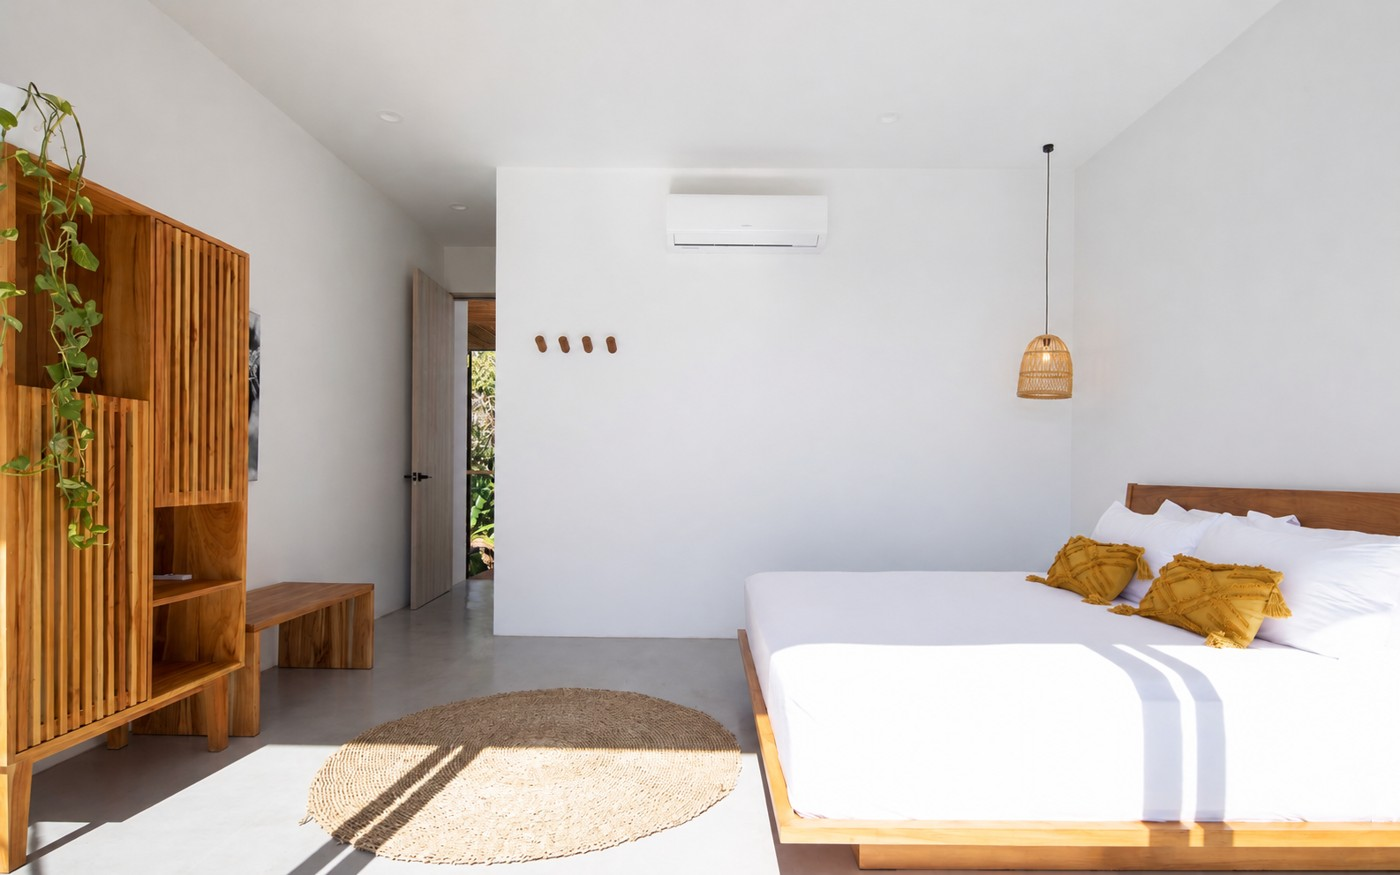
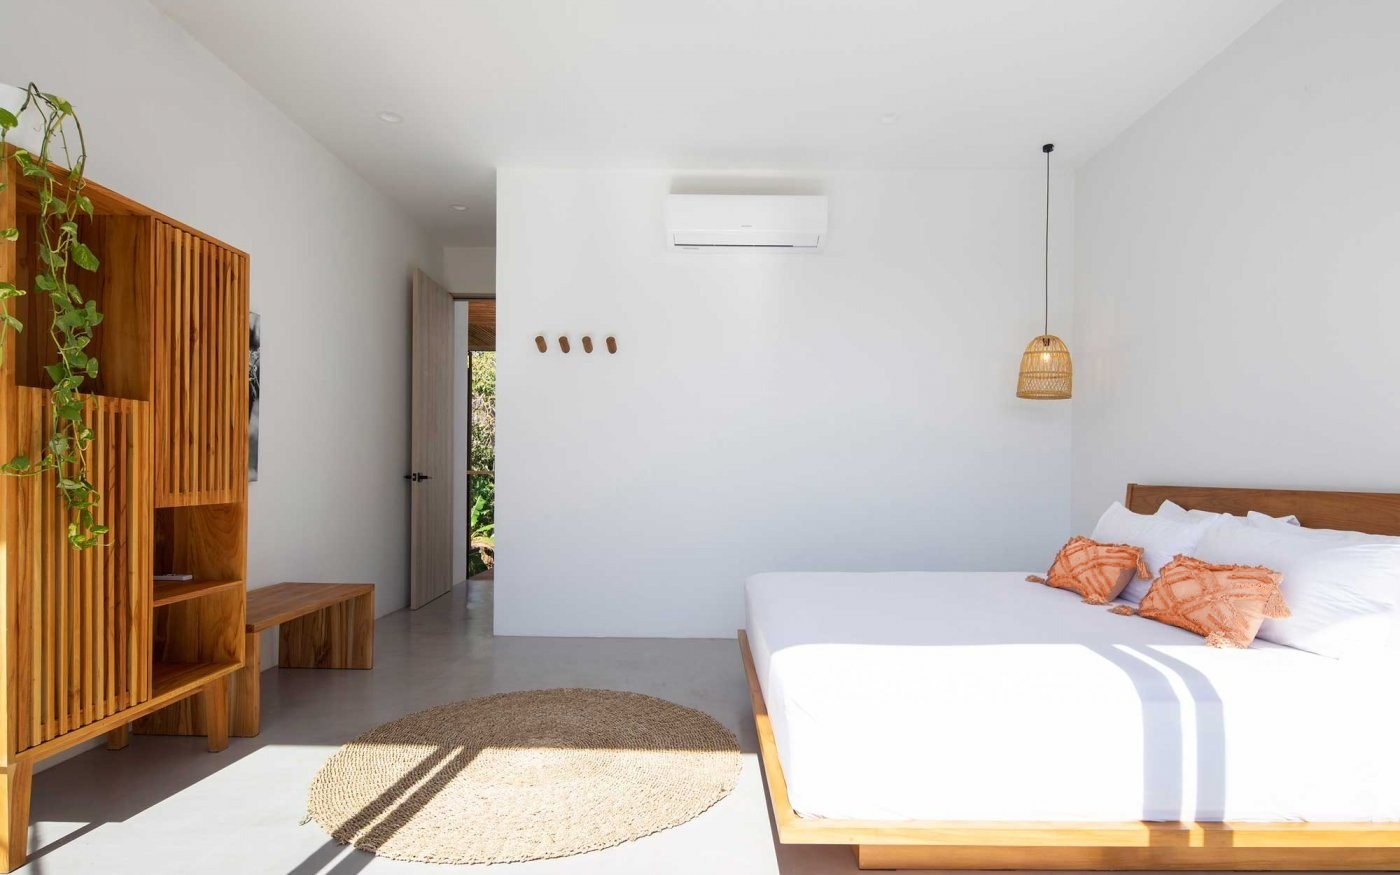
v2: terracotta recolors, swap rug photo

diff --git a/v2/index.html b/v2/index.html
@@ -4,8 +4,8 @@
 <meta charset="utf-8">
 <meta name="viewport" content="width=device-width,initial-scale=1">
 <meta name="robots" content="noindex,nofollow">
-<meta name="site-version" content="1795831258">
-<script>(function(){var cur="1795831258";function chk(){fetch(location.href.split("#")[0],{cache:"reload"}).then(function(r){return r.text()}).then(function(t){var m=t.match(/name="site-version" content="(\d+)"/);if(m&&m[1]!==cur&&!sessionStorage.getItem("sv"+m[1])){sessionStorage.setItem("sv"+m[1],"1");location.reload()}}).catch(function(){})}chk();setInterval(chk,60000);document.addEventListener("visibilitychange",function(){if(!document.hidden)chk()})})();</script>
+<meta name="site-version" content="1795831993">
+<script>(function(){var cur="1795831993";function chk(){fetch(location.href.split("#")[0],{cache:"reload"}).then(function(r){return r.text()}).then(function(t){var m=t.match(/name="site-version" content="(\d+)"/);if(m&&m[1]!==cur&&!sessionStorage.getItem("sv"+m[1])){sessionStorage.setItem("sv"+m[1],"1");location.reload()}}).catch(function(){})}chk();setInterval(chk,60000);document.addEventListener("visibilitychange",function(){if(!document.hidden)chk()})})();</script>
 <title>v2 · Atria House</title>
 <style>
 :root{--bone:#EFE4D3;--mush:#B09C8A;--terra:#C8603A;--ochre:#BF8B36;--cocoa:#4B332B;--ox:#B0201B;--moss:#4F7A45;--blue:#8699A5}
@@ -92,7 +92,7 @@ footer{padding:30px 6vw;font:13px/1.6 system-ui;color:var(--mush);background:var
 <div id="track"><div class="pane" data-v="1"><section>
 <div class="k">Where it comes from</div>
 <h2>Three influences</h2>
-<div class="inspo"><div class="insp"><h3>Nosara</h3><p>Warm wood against stone, rooms open to the green, and fewer, better-made pieces.</p><img class="hd" loading="lazy" src="https://media.architecturaldigest.com/photos/58ee85cd8c35746d96c5e17e/master/w_1600%2Cc_limit/BambuIndah_MoonHouse_Bali__AD_SKJ_01.jpg" alt="Bambu Indah Moon House, Bali: bamboo canopy over the jungle"><div class="col"><img loading="lazy" src="https://images.dwell.com/photos-6818593201364905984/7505712737169817600-large/x.jpg" alt="Casa Terra, Tulum (Dwell): sculpted plaster curves"><img loading="lazy" src="../img/ochre/wild-house-rug.jpg" alt="Wild House, Costa Rica (Dwell): rugs in a timber lounge · AI recolor: rust to ochre"><img loading="lazy" src="https://images.dwell.com/photos-6828172408810815488/7326140967550959616-large/x.jpg" alt="Javanese farmhouse, Bali (Dwell): exposed rafters"><img loading="lazy" src="https://images.dwell.com/photos-6133553759298379776/6331211835870957568-large/x.jpg" alt="Jungle villa, Bali (Dwell): twin round mirrors, sunken tub"><img loading="lazy" src="https://images.dwell.com/photos-6280078241191022592/6309107864763686912-large/x.jpg" alt="Tree house, Tulum (Dwell): open shelves, plaster kitchen"><img loading="lazy" src="https://media.architecturaldigest.com/photos/58ecedbe715b9d07f866f700/master/w_1024%2Cc_limit/1111-AD-WEIN-12.jpg" alt="Patio: Isay Weinfeld villa, garden dining"></div></div><div class="insp"><h3>Ibiza</h3><p>Hand-finished plaster walls, terracotta, built-in seating, and shaded outdoor rooms you actually use.</p><img class="hd" loading="lazy" src="https://k-studio.gr/wp-content/uploads/2025/08/K-Studio_Scorpios_049_AnaSantl_forScorpios.jpg" alt="Scorpios, Mykonos: plaster arches, low lounge"><div class="col"><img loading="lazy" src="https://media.architecturaldigest.com/photos/59075881ca0b76474b000ee1/master/w_1600,c_limit/0617-AD-ROMU03-01_sq.jpg" alt="Daniel Romualdez finca, Ibiza: plaster hearth, indigo rug, ceramics"><img loading="lazy" src="https://media.admiddleeast.com/photos/6760843fea9c3af0e3aa600d/master/w_1600,c_limit/1.%2520Natural_Asthetik_Ibiza_HR_8.jpg" alt="Blakstad finca, Ibiza: timber and plaster living room"><img loading="lazy" src="https://media.houseandgarden.co.uk/photos/62f1147936fcbc4f6a416cf6/master/w_1600%2Cc_limit/IMG_0465.jpg" alt="Amaro Sánchez de Moya house, Ibiza: banquette, dark timber windows"><img loading="lazy" src="https://images.dwell.com/photos-6280078241191022592/6526462265213378560-large/x.jpg" alt="Campo Loft, Ibiza (Dwell): timber ceiling, sunny lounge"><img loading="lazy" src="https://images.adsttc.com/media/images/64a2/ec6e/cb9c/464f/a63a/99a8/large_jpg/noema-bar-and-restaurant-k-studio_4.jpg?1688399035" alt="Nōema, Mykonos: timber chairs, broad pendants"><img loading="lazy" src="https://www.domino.com/wp-content/uploads/2026/08/IBIZA_2420482.jpeg" alt="Terrace: terracotta, dark wood, greenery"></div></div><div class="insp"><h3>Havan</h3><p>Starielle’s Hill Country lodge: dark wood, rough stone, and rich color in the rugs, art and a few special pieces.</p><img class="hd" loading="lazy" src="https://images.squarespace-cdn.com/content/v1/62f6c381fbdd5d27466f980f/ac80f54c-4233-4c3d-827d-32017d145f07/Havan-030-+Kieran+Reeves+Photography+%5BWeb-Res%5D.jpg" alt="Hall: cranberry runner, red art"><div class="col"><img loading="lazy" src="https://images.squarespace-cdn.com/content/v1/682a0bc2bcd9947304050e85/345f27ff-8663-4de6-8c52-e7d07ffee8db/Havan-039-Edit-+Kieran+Reeves+Photography+%5BWeb-Res%5D.jpg" alt="Mantel: candles and crystals"><img loading="lazy" src="https://images.squarespace-cdn.com/content/v1/62f6c381fbdd5d27466f980f/e3dcec7a-62cc-46b6-b8f5-c51f8074988f/Havan-028-Edit-+Kieran+Reeves+Photography+%5BWeb-Res%5D.jpg?format=1500w" alt="Console with candles and greenery"><img loading="lazy" src="https://images.squarespace-cdn.com/content/v1/682a0bc2bcd9947304050e85/00d922e0-58d7-44bd-af92-47d93617b241/Havan-016-Edit-+Kieran+Reeves+Photography+%5BWeb-Res%5D.jpg" alt="Pool terrace, rust cushions"><img loading="lazy" src="https://images.squarespace-cdn.com/content/v1/62f6c381fbdd5d27466f980f/2328286d-b836-4aff-8aa0-0e897ad70193/Havan-032-+Kieran+Reeves+Photography+%5BWeb-Res%5D.jpg?format=1500w" alt="Stone hearth, timber beams, rust cushions"></div></div></div>
+<div class="inspo"><div class="insp"><h3>Nosara</h3><p>Warm wood against stone, rooms open to the green, and fewer, better-made pieces.</p><img class="hd" loading="lazy" src="https://media.architecturaldigest.com/photos/58ee85cd8c35746d96c5e17e/master/w_1600%2Cc_limit/BambuIndah_MoonHouse_Bali__AD_SKJ_01.jpg" alt="Bambu Indah Moon House, Bali: bamboo canopy over the jungle"><div class="col"><img loading="lazy" src="https://images.dwell.com/photos-6818593201364905984/7505712737169817600-large/x.jpg" alt="Casa Terra, Tulum (Dwell): sculpted plaster curves"><img loading="lazy" src="https://images.dwell.com/photos-6604448812773617664/6833904105529245696-large/x.jpg" alt="A Brutalist-Inspired, Off-Grid Retreat Rises in a Remote Costa Rican Cloud Forest"><img loading="lazy" src="https://images.dwell.com/photos-6828172408810815488/7326140967550959616-large/x.jpg" alt="Javanese farmhouse, Bali (Dwell): exposed rafters"><img loading="lazy" src="https://images.dwell.com/photos-6133553759298379776/6331211835870957568-large/x.jpg" alt="Jungle villa, Bali (Dwell): twin round mirrors, sunken tub"><img loading="lazy" src="https://images.dwell.com/photos-6280078241191022592/6309107864763686912-large/x.jpg" alt="Tree house, Tulum (Dwell): open shelves, plaster kitchen"><img loading="lazy" src="https://media.architecturaldigest.com/photos/58ecedbe715b9d07f866f700/master/w_1024%2Cc_limit/1111-AD-WEIN-12.jpg" alt="Patio: Isay Weinfeld villa, garden dining"></div></div><div class="insp"><h3>Ibiza</h3><p>Hand-finished plaster walls, terracotta, built-in seating, and shaded outdoor rooms you actually use.</p><img class="hd" loading="lazy" src="https://k-studio.gr/wp-content/uploads/2025/08/K-Studio_Scorpios_049_AnaSantl_forScorpios.jpg" alt="Scorpios, Mykonos: plaster arches, low lounge"><div class="col"><img loading="lazy" src="https://media.architecturaldigest.com/photos/59075881ca0b76474b000ee1/master/w_1600,c_limit/0617-AD-ROMU03-01_sq.jpg" alt="Daniel Romualdez finca, Ibiza: plaster hearth, indigo rug, ceramics"><img loading="lazy" src="https://media.admiddleeast.com/photos/6760843fea9c3af0e3aa600d/master/w_1600,c_limit/1.%2520Natural_Asthetik_Ibiza_HR_8.jpg" alt="Blakstad finca, Ibiza: timber and plaster living room"><img loading="lazy" src="https://media.houseandgarden.co.uk/photos/62f1147936fcbc4f6a416cf6/master/w_1600%2Cc_limit/IMG_0465.jpg" alt="Amaro Sánchez de Moya house, Ibiza: banquette, dark timber windows"><img loading="lazy" src="https://images.dwell.com/photos-6280078241191022592/6526462265213378560-large/x.jpg" alt="Campo Loft, Ibiza (Dwell): timber ceiling, sunny lounge"><img loading="lazy" src="https://images.adsttc.com/media/images/64a2/ec6e/cb9c/464f/a63a/99a8/large_jpg/noema-bar-and-restaurant-k-studio_4.jpg?1688399035" alt="Nōema, Mykonos: timber chairs, broad pendants"><img loading="lazy" src="https://www.domino.com/wp-content/uploads/2026/08/IBIZA_2420482.jpeg" alt="Terrace: terracotta, dark wood, greenery"></div></div><div class="insp"><h3>Havan</h3><p>Starielle’s Hill Country lodge: dark wood, rough stone, and rich color in the rugs, art and a few special pieces.</p><img class="hd" loading="lazy" src="https://images.squarespace-cdn.com/content/v1/62f6c381fbdd5d27466f980f/ac80f54c-4233-4c3d-827d-32017d145f07/Havan-030-+Kieran+Reeves+Photography+%5BWeb-Res%5D.jpg" alt="Hall: cranberry runner, red art"><div class="col"><img loading="lazy" src="https://images.squarespace-cdn.com/content/v1/682a0bc2bcd9947304050e85/345f27ff-8663-4de6-8c52-e7d07ffee8db/Havan-039-Edit-+Kieran+Reeves+Photography+%5BWeb-Res%5D.jpg" alt="Mantel: candles and crystals"><img loading="lazy" src="https://images.squarespace-cdn.com/content/v1/62f6c381fbdd5d27466f980f/e3dcec7a-62cc-46b6-b8f5-c51f8074988f/Havan-028-Edit-+Kieran+Reeves+Photography+%5BWeb-Res%5D.jpg?format=1500w" alt="Console with candles and greenery"><img loading="lazy" src="https://images.squarespace-cdn.com/content/v1/682a0bc2bcd9947304050e85/00d922e0-58d7-44bd-af92-47d93617b241/Havan-016-Edit-+Kieran+Reeves+Photography+%5BWeb-Res%5D.jpg" alt="Pool terrace, rust cushions"><img loading="lazy" src="https://images.squarespace-cdn.com/content/v1/62f6c381fbdd5d27466f980f/2328286d-b836-4aff-8aa0-0e897ad70193/Havan-032-+Kieran+Reeves+Photography+%5BWeb-Res%5D.jpg?format=1500w" alt="Stone hearth, timber beams, rust cushions"></div></div></div>
 </section>
 
 <section style="padding-top:0">
@@ -152,7 +152,7 @@ footer{padding:30px 6vw;font:13px/1.6 system-ui;color:var(--mush);background:var
 </div><div class="pane" data-v="4"><section>
 <div class="k">Where it comes from</div>
 <h2>Three influences</h2>
-<div class="inspo"><div class="insp"><h3>Nosara</h3><p>Warm wood against stone, rooms open to the green, and fewer, better-made pieces.</p><img class="hd" loading="lazy" src="https://images.dwell.com/photos-6280078241191022592/6309104619949109248-large/x.jpg" alt="A Serene Tulum Tree House Perched Between the Jungle and the"><div class="col"><img loading="lazy" src="https://images.dwell.com/photos-6280078241191022592/6309107864763686912-large/x.jpg" alt="A Serene Tulum Tree House Perched Between the Jungle and the"><img loading="lazy" src="https://images.dwell.com/photos-6280078241191022592/6309107529843863552-large/x.jpg" alt="A Serene Tulum Tree House Perched Between the Jungle and the"><img loading="lazy" src="https://images.dwell.com/photos-6280078241191022592/6309104334216343552-large/x.jpg" alt="A Serene Tulum Tree House Perched Between the Jungle and the"><img loading="lazy" src="../img/ochre/naia-woven-chair.jpg" alt="studiosaxe.com · AI recolor: rust to ochre"><img loading="lazy" src="https://studiosaxe.com/wp-content/uploads/2018/03/VillaSaxo_Big10-1.jpg" alt="studiosaxe.com"><img loading="lazy" src="https://images.dwell.com/photos-6280078241191022592/6309097001923096576-large/x.jpg" alt="A Serene Tulum Tree House Perched Between the Jungle and the"></div></div><div class="insp"><h3>Ibiza</h3><p>Hand-finished plaster walls, terracotta, built-in seating, and shaded outdoor rooms you actually use.</p><img class="hd" loading="lazy" src="https://media.houseandgarden.co.uk/photos/62f1147736fcbc4f6a416cf4/master/w_1600%2Cc_limit/IMG_9769%2520rd.jpg" alt="houseandgarden.co.uk"><div class="col"><img loading="lazy" src="https://hips.hearstapps.com/hmg-prod/images/casa-ibiza-cala-san-jose-estilo-moderno-cocina-rustico-armario-obra-puertas-madera-1625573605.jpg" alt="elledecor.com"><img loading="lazy" src="https://media.houseandgarden.co.uk/photos/62f1147936fcbc4f6a416cf6/master/w_1600%2Cc_limit/IMG_0465.jpg" alt="houseandgarden.co.uk"><img loading="lazy" src="https://media.houseandgarden.co.uk/photos/62f1147c36fcbc4f6a416cf7/master/w_1600%2Cc_limit/IMG_0654.jpg" alt="houseandgarden.co.uk"><img loading="lazy" src="https://media.houseandgarden.co.uk/photos/62f1147d3faea5109d70deb1/master/w_1600%2Cc_limit/IMG_0684.jpg" alt="houseandgarden.co.uk"><img loading="lazy" src="https://images.dwell.com/photos-6488407258118639616/6605389412365934592-large/x.jpg" alt="This Secluded, 19th-Century Spanish Estate Is the Perfect Es"><img loading="lazy" src="https://www.domino.com/wp-content/uploads/2026/08/IBIZA_2420482.jpeg" alt="Terrace: terracotta, dark wood, greenery"></div></div><div class="insp"><h3>Havan</h3><p>Starielle’s Hill Country lodge: dark wood, rough stone, and rich color in the rugs, art and a few special pieces.</p><img class="hd" loading="lazy" src="https://images.squarespace-cdn.com/content/v1/62f6c381fbdd5d27466f980f/ac80f54c-4233-4c3d-827d-32017d145f07/Havan-030-+Kieran+Reeves+Photography+%5BWeb-Res%5D.jpg" alt="Hall: cranberry runner, red art"><div class="col"><img loading="lazy" src="https://images.squarespace-cdn.com/content/v1/682a0bc2bcd9947304050e85/345f27ff-8663-4de6-8c52-e7d07ffee8db/Havan-039-Edit-+Kieran+Reeves+Photography+%5BWeb-Res%5D.jpg" alt="Mantel: candles and crystals"><img loading="lazy" src="https://images.squarespace-cdn.com/content/v1/62f6c381fbdd5d27466f980f/6634c7d3-19a8-4a57-a958-7e158c1c1194/Havan-045-+Kieran+Reeves+Photography+%5BWeb-Res%5D.jpg?format=1500w" alt="Havan"><img loading="lazy" src="https://images.squarespace-cdn.com/content/v1/682a0bc2bcd9947304050e85/00d922e0-58d7-44bd-af92-47d93617b241/Havan-016-Edit-+Kieran+Reeves+Photography+%5BWeb-Res%5D.jpg" alt="Pool terrace, rust cushions"><img loading="lazy" src="https://images.squarespace-cdn.com/content/v1/62f6c381fbdd5d27466f980f/b55de884-b7ef-4858-a010-78ca6141c91c/Havan-070-+Kieran+Reeves+Photography+%5BWeb-Res%5D.jpg?format=1500w" alt="Havan"></div></div></div>
+<div class="inspo"><div class="insp"><h3>Nosara</h3><p>Warm wood against stone, rooms open to the green, and fewer, better-made pieces.</p><img class="hd" loading="lazy" src="https://images.dwell.com/photos-6280078241191022592/6309104619949109248-large/x.jpg" alt="A Serene Tulum Tree House Perched Between the Jungle and the"><div class="col"><img loading="lazy" src="https://images.dwell.com/photos-6280078241191022592/6309107864763686912-large/x.jpg" alt="A Serene Tulum Tree House Perched Between the Jungle and the"><img loading="lazy" src="https://images.dwell.com/photos-6280078241191022592/6309107529843863552-large/x.jpg" alt="A Serene Tulum Tree House Perched Between the Jungle and the"><img loading="lazy" src="https://images.dwell.com/photos-6280078241191022592/6309104334216343552-large/x.jpg" alt="A Serene Tulum Tree House Perched Between the Jungle and the"><img loading="lazy" src="../img/ochre/naia-woven-chair.jpg" alt="studiosaxe.com · AI recolor: rust to terracotta"><img loading="lazy" src="https://studiosaxe.com/wp-content/uploads/2018/03/VillaSaxo_Big10-1.jpg" alt="studiosaxe.com"><img loading="lazy" src="https://images.dwell.com/photos-6280078241191022592/6309097001923096576-large/x.jpg" alt="A Serene Tulum Tree House Perched Between the Jungle and the"></div></div><div class="insp"><h3>Ibiza</h3><p>Hand-finished plaster walls, terracotta, built-in seating, and shaded outdoor rooms you actually use.</p><img class="hd" loading="lazy" src="https://media.houseandgarden.co.uk/photos/62f1147736fcbc4f6a416cf4/master/w_1600%2Cc_limit/IMG_9769%2520rd.jpg" alt="houseandgarden.co.uk"><div class="col"><img loading="lazy" src="https://hips.hearstapps.com/hmg-prod/images/casa-ibiza-cala-san-jose-estilo-moderno-cocina-rustico-armario-obra-puertas-madera-1625573605.jpg" alt="elledecor.com"><img loading="lazy" src="https://media.houseandgarden.co.uk/photos/62f1147936fcbc4f6a416cf6/master/w_1600%2Cc_limit/IMG_0465.jpg" alt="houseandgarden.co.uk"><img loading="lazy" src="https://media.houseandgarden.co.uk/photos/62f1147c36fcbc4f6a416cf7/master/w_1600%2Cc_limit/IMG_0654.jpg" alt="houseandgarden.co.uk"><img loading="lazy" src="https://media.houseandgarden.co.uk/photos/62f1147d3faea5109d70deb1/master/w_1600%2Cc_limit/IMG_0684.jpg" alt="houseandgarden.co.uk"><img loading="lazy" src="https://images.dwell.com/photos-6488407258118639616/6605389412365934592-large/x.jpg" alt="This Secluded, 19th-Century Spanish Estate Is the Perfect Es"><img loading="lazy" src="https://www.domino.com/wp-content/uploads/2026/08/IBIZA_2420482.jpeg" alt="Terrace: terracotta, dark wood, greenery"></div></div><div class="insp"><h3>Havan</h3><p>Starielle’s Hill Country lodge: dark wood, rough stone, and rich color in the rugs, art and a few special pieces.</p><img class="hd" loading="lazy" src="https://images.squarespace-cdn.com/content/v1/62f6c381fbdd5d27466f980f/ac80f54c-4233-4c3d-827d-32017d145f07/Havan-030-+Kieran+Reeves+Photography+%5BWeb-Res%5D.jpg" alt="Hall: cranberry runner, red art"><div class="col"><img loading="lazy" src="https://images.squarespace-cdn.com/content/v1/682a0bc2bcd9947304050e85/345f27ff-8663-4de6-8c52-e7d07ffee8db/Havan-039-Edit-+Kieran+Reeves+Photography+%5BWeb-Res%5D.jpg" alt="Mantel: candles and crystals"><img loading="lazy" src="https://images.squarespace-cdn.com/content/v1/62f6c381fbdd5d27466f980f/6634c7d3-19a8-4a57-a958-7e158c1c1194/Havan-045-+Kieran+Reeves+Photography+%5BWeb-Res%5D.jpg?format=1500w" alt="Havan"><img loading="lazy" src="https://images.squarespace-cdn.com/content/v1/682a0bc2bcd9947304050e85/00d922e0-58d7-44bd-af92-47d93617b241/Havan-016-Edit-+Kieran+Reeves+Photography+%5BWeb-Res%5D.jpg" alt="Pool terrace, rust cushions"><img loading="lazy" src="https://images.squarespace-cdn.com/content/v1/62f6c381fbdd5d27466f980f/b55de884-b7ef-4858-a010-78ca6141c91c/Havan-070-+Kieran+Reeves+Photography+%5BWeb-Res%5D.jpg?format=1500w" alt="Havan"></div></div></div>
 </section>
 
 <section style="padding-top:0">
@@ -252,7 +252,7 @@ footer{padding:30px 6vw;font:13px/1.6 system-ui;color:var(--mush);background:var
 </div><div class="pane" data-v="9"><section>
 <div class="k">Where it comes from</div>
 <h2>Three influences</h2>
-<div class="inspo"><div class="insp"><h3>Nosara</h3><p>Warm wood against stone, rooms open to the green, and fewer, better-made pieces.</p><img class="hd" loading="lazy" src="https://studiosaxe.com/wp-content/uploads/2021/06/StudioSaxe_NAIA2_Web_178-1400x875.jpg" alt="studiosaxe.com"><div class="col"><img loading="lazy" src="https://studiosaxe.com/wp-content/uploads/2021/06/StudioSaxe_NAIA2_Web_012-1400x875.jpg" alt="studiosaxe.com"><img loading="lazy" src="https://studiosaxe.com/wp-content/uploads/2021/06/StudioSaxe_NAIA2_Web_191-1400x875.jpg" alt="studiosaxe.com"><img loading="lazy" src="https://studiosaxe.com/wp-content/uploads/2021/06/StudioSaxe_NAIA2_Web_098-1400x875.jpg" alt="studiosaxe.com"><img loading="lazy" src="../img/ochre/naia-bed-pillows.jpg" alt="studiosaxe.com · AI recolor: rust to ochre"><img loading="lazy" src="https://studiosaxe.com/wp-content/uploads/2021/06/StudioSaxe_NAIA1_Web_083-1400x875.jpg" alt="studiosaxe.com"><img loading="lazy" src="https://studiosaxe.com/wp-content/uploads/2021/06/StudioSaxe_NAIA2_Web_201-1400x875.jpg" alt="studiosaxe.com"></div></div><div class="insp"><h3>Ibiza</h3><p>Hand-finished plaster walls, terracotta, built-in seating, and shaded outdoor rooms you actually use.</p><img class="hd" loading="lazy" src="https://media.architecturaldigest.com/photos/6616adf929162e1cbf21d887/master/w_1600%2Cc_limit/AD0524_ASKARI_1%2520copy.jpg" alt="architecturaldigest.com"><div class="col"><img loading="lazy" src="https://images.dwell.com/photos-6133553759298379776/6593211040397148160-large/x.jpg" alt="On Mallorca, a Hillside Home Captures Views With Strategical"><img loading="lazy" src="https://hips.hearstapps.com/hmg-prod/images/casa-ibiza-cala-san-jose-estilo-moderno-comedor-vigas-madera-1625573605.jpg" alt="elledecor.com"><img loading="lazy" src="https://media.architecturaldigest.com/photos/58c2fb67ef95ec7e84c4b1a4/master/w_1600%2Cc_limit/0513-AD-CARD-06.jpg" alt="architecturaldigest.com"><img loading="lazy" src="https://hips.hearstapps.com/hmg-prod/images/casa-ibiza-cala-san-jose-estilo-moderno-bano-armarios-obra-puertas-madera-1625573604.jpg" alt="elledecor.com"><img loading="lazy" src="https://images.dwell.com/photos-6133553759298379776/6593211029370322944-large/x.jpg" alt="On Mallorca, a Hillside Home Captures Views With Strategical"><img loading="lazy" src="https://www.domino.com/wp-content/uploads/2026/08/IBIZA_2420482.jpeg" alt="Terrace: terracotta, dark wood, greenery"></div></div><div class="insp"><h3>Havan</h3><p>Starielle’s Hill Country lodge: dark wood, rough stone, and rich color in the rugs, art and a few special pieces.</p><img class="hd" loading="lazy" src="https://images.squarespace-cdn.com/content/v1/62f6c381fbdd5d27466f980f/ac80f54c-4233-4c3d-827d-32017d145f07/Havan-030-+Kieran+Reeves+Photography+%5BWeb-Res%5D.jpg" alt="Hall: cranberry runner, red art"><div class="col"><img loading="lazy" src="https://images.squarespace-cdn.com/content/v1/682a0bc2bcd9947304050e85/345f27ff-8663-4de6-8c52-e7d07ffee8db/Havan-039-Edit-+Kieran+Reeves+Photography+%5BWeb-Res%5D.jpg" alt="Mantel: candles and crystals"><img loading="lazy" src="https://images.squarespace-cdn.com/content/v1/62f6c381fbdd5d27466f980f/1780940777069-LPM5CDCBF7FMU5YTBCAC/image-asset.jpeg?format=1500w" alt="Havan"><img loading="lazy" src="https://images.squarespace-cdn.com/content/v1/682a0bc2bcd9947304050e85/00d922e0-58d7-44bd-af92-47d93617b241/Havan-016-Edit-+Kieran+Reeves+Photography+%5BWeb-Res%5D.jpg" alt="Pool terrace, rust cushions"><img loading="lazy" src="https://images.squarespace-cdn.com/content/v1/62f6c381fbdd5d27466f980f/72a9763e-f662-4653-a774-9b54b2bd9e08/Havan-079-Edit-+Kieran+Reeves+Photography+%5BWeb-Res%5D.jpg?format=1500w" alt="Havan"></div></div></div>
+<div class="inspo"><div class="insp"><h3>Nosara</h3><p>Warm wood against stone, rooms open to the green, and fewer, better-made pieces.</p><img class="hd" loading="lazy" src="https://studiosaxe.com/wp-content/uploads/2021/06/StudioSaxe_NAIA2_Web_178-1400x875.jpg" alt="studiosaxe.com"><div class="col"><img loading="lazy" src="https://studiosaxe.com/wp-content/uploads/2021/06/StudioSaxe_NAIA2_Web_012-1400x875.jpg" alt="studiosaxe.com"><img loading="lazy" src="https://studiosaxe.com/wp-content/uploads/2021/06/StudioSaxe_NAIA2_Web_191-1400x875.jpg" alt="studiosaxe.com"><img loading="lazy" src="https://studiosaxe.com/wp-content/uploads/2021/06/StudioSaxe_NAIA2_Web_098-1400x875.jpg" alt="studiosaxe.com"><img loading="lazy" src="../img/ochre/naia-bed-pillows.jpg" alt="studiosaxe.com · AI recolor: rust to terracotta"><img loading="lazy" src="https://studiosaxe.com/wp-content/uploads/2021/06/StudioSaxe_NAIA1_Web_083-1400x875.jpg" alt="studiosaxe.com"><img loading="lazy" src="https://studiosaxe.com/wp-content/uploads/2021/06/StudioSaxe_NAIA2_Web_201-1400x875.jpg" alt="studiosaxe.com"></div></div><div class="insp"><h3>Ibiza</h3><p>Hand-finished plaster walls, terracotta, built-in seating, and shaded outdoor rooms you actually use.</p><img class="hd" loading="lazy" src="https://media.architecturaldigest.com/photos/6616adf929162e1cbf21d887/master/w_1600%2Cc_limit/AD0524_ASKARI_1%2520copy.jpg" alt="architecturaldigest.com"><div class="col"><img loading="lazy" src="https://images.dwell.com/photos-6133553759298379776/6593211040397148160-large/x.jpg" alt="On Mallorca, a Hillside Home Captures Views With Strategical"><img loading="lazy" src="https://hips.hearstapps.com/hmg-prod/images/casa-ibiza-cala-san-jose-estilo-moderno-comedor-vigas-madera-1625573605.jpg" alt="elledecor.com"><img loading="lazy" src="https://media.architecturaldigest.com/photos/58c2fb67ef95ec7e84c4b1a4/master/w_1600%2Cc_limit/0513-AD-CARD-06.jpg" alt="architecturaldigest.com"><img loading="lazy" src="https://hips.hearstapps.com/hmg-prod/images/casa-ibiza-cala-san-jose-estilo-moderno-bano-armarios-obra-puertas-madera-1625573604.jpg" alt="elledecor.com"><img loading="lazy" src="https://images.dwell.com/photos-6133553759298379776/6593211029370322944-large/x.jpg" alt="On Mallorca, a Hillside Home Captures Views With Strategical"><img loading="lazy" src="https://www.domino.com/wp-content/uploads/2026/08/IBIZA_2420482.jpeg" alt="Terrace: terracotta, dark wood, greenery"></div></div><div class="insp"><h3>Havan</h3><p>Starielle’s Hill Country lodge: dark wood, rough stone, and rich color in the rugs, art and a few special pieces.</p><img class="hd" loading="lazy" src="https://images.squarespace-cdn.com/content/v1/62f6c381fbdd5d27466f980f/ac80f54c-4233-4c3d-827d-32017d145f07/Havan-030-+Kieran+Reeves+Photography+%5BWeb-Res%5D.jpg" alt="Hall: cranberry runner, red art"><div class="col"><img loading="lazy" src="https://images.squarespace-cdn.com/content/v1/682a0bc2bcd9947304050e85/345f27ff-8663-4de6-8c52-e7d07ffee8db/Havan-039-Edit-+Kieran+Reeves+Photography+%5BWeb-Res%5D.jpg" alt="Mantel: candles and crystals"><img loading="lazy" src="https://images.squarespace-cdn.com/content/v1/62f6c381fbdd5d27466f980f/1780940777069-LPM5CDCBF7FMU5YTBCAC/image-asset.jpeg?format=1500w" alt="Havan"><img loading="lazy" src="https://images.squarespace-cdn.com/content/v1/682a0bc2bcd9947304050e85/00d922e0-58d7-44bd-af92-47d93617b241/Havan-016-Edit-+Kieran+Reeves+Photography+%5BWeb-Res%5D.jpg" alt="Pool terrace, rust cushions"><img loading="lazy" src="https://images.squarespace-cdn.com/content/v1/62f6c381fbdd5d27466f980f/72a9763e-f662-4653-a774-9b54b2bd9e08/Havan-079-Edit-+Kieran+Reeves+Photography+%5BWeb-Res%5D.jpg?format=1500w" alt="Havan"></div></div></div>
 </section>
 
 <section style="padding-top:0">
